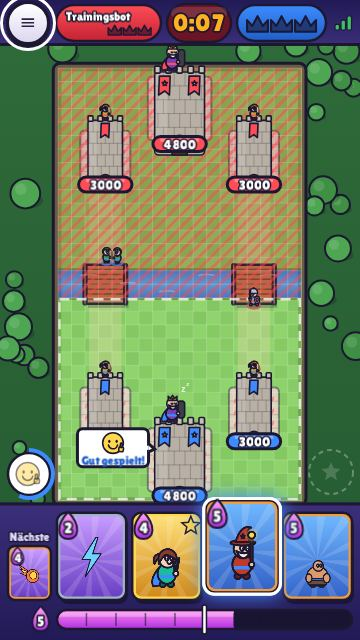
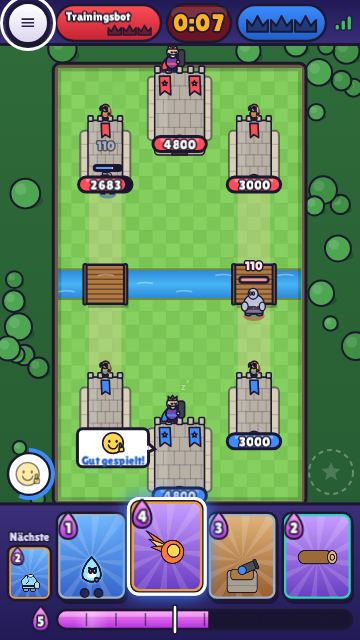
Aufräumen: Reste der erfundenen Karten entfernt, Doku aktualisiert
- README: Datenquelle (Clash Royale Wiki, CC BY-SA), Kartenumfang, Level,
  skin.json, Generator, neue Tests und Dateien
- Ladetipps, Kommentare und Look-Doku ohne alte Kartennamen
- Screenshots (README und UI-Auswahl) mit den echten Karten neu erzeugt
- Einheitlich „Spirit Empress“ wie im Spiel

Claude-Session: https://claude.ai/code/session_01Y8rRgYSLLZGca4oDTBhhbE

diff --git a/turmtrubel/client/js/main.js b/turmtrubel/client/js/main.js
@@ -18,12 +18,13 @@ const TIPS = [
   'Tipp: Fällt ein gegnerischer Wachturm, darfst du auch in seiner Lane platzieren.',
   'Tipp: In der letzten Minute fließt das Elixier doppelt so schnell.',
   'Tipp: Evo-Karten entwickeln sich, wenn du sie oft genug ausgespielt hast.',
-  'Tipp: Champions haben eine aktive Fähigkeit – sie kostet Elixier und lädt nach.',
-  'Tipp: Helden haben eine starke Spezialfähigkeit, die du einmal pro Einsatz zünden kannst.',
-  'Tipp: Gebäude lenken Gebäudejäger wie den Steinkoloss ab.',
+  'Tipp: Champions und Helden haben eine Fähigkeit – sie kostet Elixier und wirkt einmal pro Einsatz.',
+  'Tipp: Ein Held und seine normale Karte passen nicht zusammen ins Deck.',
+  'Tipp: Der Spiegel wiederholt deine zuletzt gespielte Karte eine Stufe stärker – für 1 Elixier mehr.',
+  'Tipp: Gebäude lenken Gebäudejäger wie den Riesen oder den Schweinereiter ab.',
   'Tipp: Mit den Tasten 1–4 wählst du Karten, mit der Leertaste zündest du Fähigkeiten.',
   'Tipp: Wählst du eine Karte, zeigt die Elixierleiste mit einer Kerbe, was sie kostet.',
-  'Tipp: Zauber wie Glutball treffen auch Kronentürme – aber mit weniger Schaden.',
+  'Tipp: Zauber wie der Feuerball treffen auch Kronentürme – aber mit weniger Schaden.',
   'Tipp: Schwärme sind stark gegen große Einzelkämpfer, aber anfällig für Flächenschaden.',
   'Tipp: Tippst du auf den gekürzten Gegnernamen, siehst du ihn in voller Länge.',
   'Tipp: Zerstörst du einen Wachturm, bekommst du eine Krone – drei Kronen beenden den Kampf sofort.',

diff --git a/turmtrubel/client/js/game/game.js b/turmtrubel/client/js/game/game.js
@@ -991,7 +991,7 @@ export class Game {
     return { obstacles, enemyDown };
   }
 
-  /** Aktuelle Kosten einer Handkarte laut Server (Spiegel, Geisterkaiserin); null = gerade nicht spielbar. */
+  /** Aktuelle Kosten einer Handkarte laut Server (Spiegel, Spirit Empress); null = gerade nicht spielbar. */
   handCost(slot, card) {
     const hc = this.me?.hc?.[slot];
     if (card?.elixirRule === 'mirror') return hc ?? null;
@@ -1122,7 +1122,7 @@ export class Game {
       g.dir = forwardDir(this.side);
       return g;
     }
-    // Geisterkaiserin: Form nach den aktuellen Kosten
+    // Spirit Empress: Form nach den aktuellen Kosten
     let ref = this.db.unitRefOf(eff);
     if (eff.forms) {
       const c = cost ?? this.handCost(this.sel, card);

diff --git a/turmtrubel/client/js/ui/cardview.js b/turmtrubel/client/js/ui/cardview.js
@@ -92,7 +92,7 @@ export function statsRows(db, card, evo = false) {
     if (s.delay) add('Verzögerung', `${fmt(s.delay)} s`, '⏳');
     return rows;
   }
-  // Geisterkaiserin: Werte der aktuell gewählten (Luft-)Form, die zweite Form als Hinweis
+  // Spirit Empress: Werte der aktuell gewählten (Luft-)Form, die zweite Form als Hinweis
   const u = db.unit(card.forms ? card.forms[0].unit : card.id, evo);
   const count = card.forms ? 1 : db.groupsOf(card, evo).reduce((sum, g) => sum + (g.count || 1), 0);
   add('Leben', fmt(u.hp) + (count > 1 ? ` (×${count})` : ''), '❤', 'hp', u.hp);

diff --git a/turmtrubel/client/js/game/hud.js b/turmtrubel/client/js/game/hud.js
@@ -538,7 +538,7 @@ export class Hud {
     const selected = g.sel === i && !g.ended;
     const dragging = g.drag?.active && selected;
     const ready = !(me.hr[i] > 0.01) && !g.pendingSlot.has(i);
-    // Kosten laut Server (Spiegel: letzte Karte + 1, Geisterkaiserin: je nach Elixier)
+    // Kosten laut Server (Spiegel: letzte Karte + 1, Spirit Empress: je nach Elixier)
     const cost = g.handCost(i, card);
     const afford = cost != null && elixir + 1e-6 >= cost;
     const evoInfo = me.ev?.[i];

diff --git a/turmtrubel/server/bot.js b/turmtrubel/server/bot.js
@@ -23,7 +23,7 @@ export class Bot {
     const p = m.players[side];
     this.tryAbility();
 
-    // Kosten wie beim Menschen über den Server (Spiegel, Geisterkaiserin); der Spiegel spielt wie seine Vorlage
+    // Kosten wie beim Menschen über den Server (Spiegel, Spirit Empress); der Spiegel spielt wie seine Vorlage
     const hand = p.hand
       .map((id, i) => {
         const card = m.db.card(id);

diff --git a/turmtrubel/test/mechanics.test.js b/turmtrubel/test/mechanics.test.js
@@ -338,7 +338,7 @@ test('Spiegel: letzte Karte eine Stufe stärker für +1 Elixier', () => {
   near(ks[1].maxHp / ks[0].maxHp, 1.1, 0.01);
 });
 
-test('Geisterkaiserin: Form hängt vom Elixier ab', () => {
+test('Spirit Empress: Form hängt vom Elixier ab', () => {
   const m = newMatch();
   const c = db.card('spirit-empress');
   m.players[0].elixir = 10;

diff --git a/turmtrubel/tools/cards/defs_looks.py b/turmtrubel/tools/cards/defs_looks.py
@@ -2,8 +2,7 @@
 # Eigene Gestaltung aus Körper/Hut/Waffe/Farben – keine Original-Grafiken.
 # body: hum | imp | skel | brute | golem | bot | moth | bug | winged | dragon | balloon | whale | spirit
 #       | rider | blob | barrel | cart | ghost | hog | bush | machine | wagon
-# Gebäude-body: cannon | turret | tesla | hut | grave | pump | inferno | mortar | ballista | barricade
-#       | cage | drill | bombtower
+# Gebäude-body: cannon | turret | tesla | hut | grave | pump | inferno | mortar | ballista | cage | drill | bombtower
 # Zauber: icon + color. Fehlt ein Look, zeichnet der Client einen Platzhalter mit dem Kartennamen.
 
 GOLD = '#ffd54a'

diff --git a/turmtrubel/README.md b/turmtrubel/README.md
@@ -1,6 +1,8 @@
 # Turmtrubel
 
-**Turmtrubel** ist ein 1v1-Echtzeit-Kartenspiel für den Browser: zwei Lanes, ein Fluss mit zwei Brücken, drei Türme pro Seite, Elixier, Karten ziehen und platzieren. Das Spielprinzip lehnt sich eng an bekannte Tower-Rush-Kartenspiele an. Alle Namen, Karten, Figuren, Grafiken und Sounds sind eigene Entwürfe; Grafik und Ton werden komplett im Code erzeugt, es gibt keine Bild- oder Audiodateien.
+**Turmtrubel** ist ein 1v1-Echtzeit-Kartenspiel für den Browser: zwei Lanes, ein Fluss mit zwei Brücken, drei Türme pro Seite, Elixier, Karten ziehen und platzieren. Gespielt wird mit den **echten Clash-Royale-Karten** (Namen, Elixier, Seltenheit, Typ und Werte wie im Original, Turnierstandard Level 11), alle von Anfang an freigeschaltet. Grafik und Ton sind eigene Entwürfe und werden komplett im Code erzeugt; es gibt keine kopierten Original-Assets und keine Bild- oder Audiodateien.
+
+> Privates Hobbyprojekt, nicht mit Supercell verbunden. Clash Royale ist eine Marke von Supercell. Die Kartenwerte stammen aus dem Community-Wiki (siehe [Datenquelle](#datenquelle)).
 
 ![Kampf am Desktop](docs/kampf-desktop.jpg)
 
@@ -54,7 +56,7 @@ Solange eine Karte ausgewählt ist, ist der gesperrte Bereich rot schraffiert, d
 
 ## Spielregeln
 
-* **Arena:** 18 × 32 Felder, zwei Lanes, Fluss in der Mitte, zwei Brücken. Bodentruppen kommen nur über die Brücken hinüber (Ausnahme: der *Borstenreiter* springt).
+* **Arena:** 18 × 32 Felder, zwei Lanes, Fluss in der Mitte, zwei Brücken. Bodentruppen kommen nur über die Brücken hinüber (Ausnahme: Flussspringer wie *Schweinereiter*, *Prinz* oder *Widderreiterin*).
 * **Türme:** pro Spieler 2 **Wachtürme** (entsprechen den Prinzessinnentürmen, 3000 LP) und 1 **Burgturm** (Königsturm, 4800 LP). Der Burgturm schläft, bis er Schaden nimmt oder ein eigener Wachturm fällt.
 * **Elixier:** Start bei 5, maximal 10, +1 alle 2,8 s. In der letzten Minute doppelt so schnell, in der Verlängerung dreifach.
 * **Dauer:** 3 Minuten. Bei Kronengleichstand folgen 2 Minuten **Verlängerung mit Sudden Death**: Der erste zerstörte Turm gewinnt. Steht es danach immer noch gleich, verliert der Spieler mit dem Turm mit den wenigsten Lebenspunkten; sind auch diese gleich, endet das Spiel unentschieden.
@@ -65,20 +67,24 @@ Solange eine Karte ausgewählt ist, ist der gesperrte Bereich rot schraffiert, d
 
 ### Kartenarten
 
-70 Karten, alle von Anfang an freigeschaltet und auf maximaler Stufe:
+140 Karteneinträge: alle **123 regulären Karten** des Originals plus **17 Helden-Varianten**, alle freigeschaltet und auf Level 11:
 
 | Art | Anzahl | Beispiele |
 | --- | ------ | --------- |
-| Truppen | 35 | Knappe, Zwillingsschützinnen, Knochenlegion, Steinkoloss, Bombenzeppelin, Glutwal, Tunnelgräber |
-| Gebäude | 9 | Donnerbüchse, Blitzmast, Glutschlund, Wichtelhütte, Elixierbrunnen, Steinschleuder, Belagerungsballiste, Barrikade |
-| Zauber | 14 | Glutball, Pfeilhagel, Funkenschlag, Eishauch, Sumpfnebel, Leimregen, Kettenblitz, Gewitterzorn, Heilregen, Rollstamm |
-| Champions | 6 | Aktive Fähigkeit, die **Elixier kostet** und eine **Abklingzeit** hat. Die Karte kehrt erst nach dem Tod des Champions in den Zyklus zurück. |
-| Helden | 6 | Starke Einheit mit **einmaliger** Spezialfähigkeit (kostenlos, einmal pro Einsatz) |
-| Evo-Karten | 15 | Liegt eine solche Karte in einem der **2 Evo-Plätze**, lädt sie sich durch Ausspielen auf. Nach `cycles` Einsätzen kommt die nächste als **Evo** mit Zusatzeffekt, anderen Farben, violetter Aura und Glitzer. |
+| Truppen | 82 | Ritter, Bogenschützen, Riese, P.E.K.K.A., Schweinereiter, Lakaienhorde, Megaritter, Spirit Empress |
+| Gebäude | 12 | Kanone, Tesla, Infernoturm, X-Bogen, Minenwerfer, Grabstein, Elixiersammler, Koboldbohrer |
+| Zauber | 21 | Feuerball, Pfeile, Gift, Blitz, Baumstamm, Tornado, Spiegel, Klonzauber, Friedhof, Ranken, Leere |
+| Champions | 8 | Bogenkönigin, Goldener Ritter, Skelettkönig, Mächtiger Mineur, Mönch, Little Prince, Goblinstein, Boss Bandit |
+| Helden | 17 | Eigene Karten `<basis>-hero` (z. B. *Ritter (Held)*), nur im ★-Platz und nie zusammen mit ihrer Basiskarte |
+| Evolutionen | 42 | Liegt eine solche Karte in einem der **2 Evo-Plätze**, lädt sie sich durch Ausspielen auf. Nach `cycles` Einsätzen kommt die nächste als **Evo** mit Zusatzeffekt und verändertem Aussehen. |
 
-Seltenheiten: Gewöhnlich, Selten, Episch, Legendär. Sie dienen nur der Einordnung und beeinflussen die Balance nicht.
+**Fähigkeiten:** Champions und Helden haben eine Fähigkeit, die Elixier kostet. Seit der Balance-Änderung vom 04.08.2026 wirkt sie **einmal pro Einsatz** (Boss Bandit: zweimal, 3 s Abklingzeit). Ein Champion kehrt erst nach seinem Tod in den Zyklus zurück.
 
-**Deckregeln:** 8 verschiedene Karten. Platz 1–2 sind Evo-Plätze, Platz 3 ist der **Champion/Held-Platz**. Champions und Helden dürfen nur dort liegen, also höchstens einer pro Deck. Der Server prüft das Deck beim Erstellen und Beitreten erneut.
+Seltenheiten: Gewöhnlich, Selten, Episch, Legendär, Champion.
+
+**Deckregeln:** 8 verschiedene Karten. Platz 1–2 sind Evo-Plätze, Platz 3 ist der **Champion/Held-Platz**. Champions und Helden dürfen nur dort liegen, also höchstens einer pro Deck; ein Held darf nicht zusammen mit seiner Basiskarte im Deck stehen. Der Server prüft das Deck beim Erstellen und Beitreten erneut. Gespeicherte Decks, die Karten enthalten, die es nicht mehr gibt, werden beim Laden automatisch auf das Startdeck zurückgesetzt.
+
+**Sonderkosten:** Der *Spiegel* kostet die zuletzt gespielte Karte + 1 und spielt sie eine Stufe stärker; die *Spirit Empress* kommt ab 6 Elixier fliegend für 6, sonst zu Fuß für 3. Beides berechnet der Server und schickt es mit dem Snapshot (`me.hc`).
 
 ---
 
@@ -89,7 +95,7 @@ Browser (Canvas-Client)                     Node.js-Server (autoritativ)
 ┌──────────────────────────┐   WebSocket   ┌───────────────────────────────────┐
 │ Eingaben: play/ability/   │ ───────────► │ rooms.js  Codes, Lobby, Countdown, │
 │ emote/ready/rematch       │              │           Reconnect, Rematch       │
-│                           │ ◄─────────── │ sim/match.js  20 Ticks/s            │
+│                           │ ◄─────────── │ sim/  20 Ticks/s                    │
 │ Snapshot-Puffer (110 ms)  │  Snapshots   │   prüft Elixier, Handkarte,         │
 │ → Interpolation → Zeichnen│   20/s       │   Platzierung, Cooldowns            │
 └──────────────────────────┘              └───────────────────────────────────┘
@@ -106,8 +112,11 @@ Browser (Canvas-Client)                     Node.js-Server (autoritativ)
 
 ```
 turmtrubel/
-├─ data/cards.json          Kartendatenbank (Balance ohne Codeänderung)
-├─ data/rules.json          Spielregeln (Zeiten, Elixier, Türme, Lobby)
+├─ data/cards.json          Kartendatenbank (erzeugt aus tools/cards/, Level 11)
+├─ data/rules.json          Spielregeln (Zeiten, Elixier, Türme, Lobby, cardLevel)
+├─ data/skin.json           Namens-/Grafik-Mapping: „original“ (Standard) oder „custom“
+├─ data/source/             Wiki-Snapshot (wiki-cards.json) als Datenquelle
+├─ TODO_missing_stats.md    fehlende, geschätzte und widersprüchliche Werte
 ├─ shared/arena.js          Geometrie, Brücken, Türme, Platzierungsregeln
 ├─ shared/cards.js          DB-Aufbau, Einheiten-/Evo-Auflösung, Deck-Validierung, Zufallsdeck
 ├─ shared/decks.js          Startdecks
@@ -115,7 +124,13 @@ turmtrubel/
 ├─ server/index.js          HTTP + WebSocket, Routing, Rate-Limit, Tick-Schleife
 ├─ server/rooms.js          RoomManager/Room: Codes, Lobby, Reconnect, Rematch, Training
 ├─ server/bot.js            Trainingsgegner (spielt über dieselben Prüfungen)
-├─ server/sim/match.js      Simulation: Einheiten, Zauber, Fähigkeiten, Sieg
+├─ server/sim/match.js      Simulation: Kern, Ausspielen, Ticks, Snapshots, Sieg
+├─ server/sim/combat.js     Zielwahl, Angriffe, Geschosse, Schaden, Buffs, Schild/Rüstung
+├─ server/sim/motion.js     Laufen, Ansturm, Sprint, Sprung, Haken, Wurf, Untergrund, Kollision
+├─ server/sim/traits.js     Spawner, Auren, Todes-Effekte, Verwandlung, Tarnung, Fallen
+├─ server/sim/spells.js     Zauberzonen, Rollzauber, Beschwörungen, Spiegel, Klon, Ranken, Leere
+├─ server/sim/abilities.js  Champion- und Heldenfähigkeiten
+├─ server/sim/geom.js       Geometrie-Helfer
 ├─ server/sim/nav.js        Navigationsraster + A*
 ├─ client/index.html        Alle Screens
 ├─ client/css/style.css     Cartoon-UI
@@ -125,6 +140,9 @@ turmtrubel/
 ├─ client/js/store.js       localStorage (Name, Einstellungen, 5 Deck-Plätze)
 ├─ client/js/ui/…           Deck-Bauer, Kartenansicht, Einstellungen, DOM-Helfer (Modal, Toast), tokens.js (Design-Tokens fürs Canvas)
 ├─ client/js/game/…         game.js (Interpolation, Eingabe), renderer.js, hud.js (Layout-Engine), canvastext.js, sprites.js, particles.js
+├─ tools/fetch-cards.mjs    lädt den Wiki-Snapshot (MediaWiki-API)
+├─ tools/cards/             Kartendefinitionen + build.py → data/cards.json, TODO_missing_stats.md
+├─ tools/e2e/               Test-Clients, die über WebSocket komplette Kämpfe spielen
 ├─ tools/ui-shots.mjs       Screenshots aller Zustände in 8 Viewports + automatische UI-Prüfungen
 ├─ docs/ui-*.md             UI-Audit, Entscheidungen, Vorher/Nachher
 └─ test/…                   node:test-Tests
@@ -132,9 +150,36 @@ turmtrubel/
 
 ---
 
+## Datenquelle
+
+Alle Kartenwerte stammen aus dem **Clash Royale Wiki** auf Fandom (<https://clashroyale.fandom.com/wiki/Cards>, Inhalte unter CC BY-SA). `tools/fetch-cards.mjs` lädt über die MediaWiki-API je Karte Infobox, deutschen Namen (Sprachlink) und die Werte-Tabellen auf **Turnierstandard Level 11** und speichert alles als Snapshot in `data/source/wiki-cards.json` (Stand: siehe `fetchedAt`). Es werden keine Werte aus dem Gedächtnis ergänzt:
+
+* Es gelten die Werte der jeweiligen Kartenseite. Ist eine Balance-Änderung aus der Versionshistorie 2026 dort noch nicht eingepflegt, wird sie angewendet.
+* Widersprüche zur Übersichtstabelle, fehlende Angaben und vorläufige Platzhalter stehen in **`TODO_missing_stats.md`**. `test/carddata.test.js` stellt sicher, dass Elixier, Seltenheit und Typ mit dem Snapshot übereinstimmen und Leben/Schaden nur dort abweichen, wo das dokumentiert ist.
+* Umrechnung: Wiki-Tempo ÷ 60 = Felder pro Sekunde (langsam 0,75 · mittel 1 · schnell 1,5 · sehr schnell 2), Geschosstempo ebenso ÷ 60; Reichweiten und Radien in Feldern, Zeiten in Sekunden.
+* Karten ohne deutschen Wiki-Eintrag tragen vorerst den englischen Namen (Liste in `TODO_missing_stats.md`).
+
+```bash
+node tools/fetch-cards.mjs        # Snapshot neu laden (überschreibt data/source/wiki-cards.json)
+npm run cards                     # data/cards.json + TODO_missing_stats.md aus tools/cards/ neu erzeugen (Python 3)
+```
+
+### Kartenlevel
+
+`data/rules.json → cardLevel` (Standard **11**) gilt für beide Spieler. Jede Stufe darüber oder darunter ändert Leben, Schaden, Schilde und Heilung um den Faktor 1,1 (Tempo, Reichweiten und Zeiten bleiben gleich). Der *Spiegel* spielt seine Karte eine Stufe höher.
+
+### Namen und Grafik: skin.json
+
+`data/skin.json` legt fest, welche Namen, Beschreibungen und Grafiken angezeigt werden:
+
+* `"active": "original"` (Standard): Namen und Aussehen aus `cards.json`, also die echten Kartennamen mit den eigenen prozeduralen Figuren.
+* `"active": "custom"`: eigene Inhalte. Für jede Karte und jedes Token gibt es einen Eintrag mit `name`, `description`, `look` (Baukasten, z. B. `{"cloth": "#2e86c1"}`), optional `image` (eigenes Bild unter `client/`, z. B. `"/img/skin/knight.png"`) sowie `evo`/`ability` mit `name` und `description`. **Leere Felder fallen auf das Original zurück.** Werte (Leben, Schaden …) ändert ein Skin nie.
+
+Umschalten über `active` oder per Umgebungsvariable: `SKIN=custom npm start`.
+
 ## Karten und Regeln anpassen
 
-Nach Änderungen an `data/cards.json` oder `data/rules.json` den Server neu starten. Clients laden die Daten direkt vom Server und sind dadurch immer synchron. `npm test` prüft anschließend, dass jede Karte gültig ist und spielbar bleibt.
+Nach Änderungen an `data/cards.json`, `data/rules.json` oder `data/skin.json` den Server neu starten. Clients laden die Daten direkt vom Server und sind dadurch immer synchron. Am besten ändert man die Definitionen in `tools/cards/` und erzeugt `cards.json` mit `npm run cards` neu. `npm test` prüft anschließend, dass jede Karte gültig ist und spielbar bleibt.
 
 **Truppe/Gebäude** (`unit`):
 
@@ -142,26 +187,27 @@ Nach Änderungen an `data/cards.json` oder `data/rules.json` den Server neu star
 | ---- | --------- |
 | `hp`, `damage`, `hitSpeed`, `firstHit` | Leben, Schaden, Sekunden zwischen Angriffen, Verzögerung des ersten Treffers |
 | `range`, `minRange`, `sight` | Reichweite (Kante zu Kante), toter Winkel, Sichtweite (Standard 5,5) |
-| `speed` | Felder pro Sekunde (0,75 langsam · 1 mittel · 1,5 schnell · 2 sehr schnell) |
+| `speed` | Felder pro Sekunde (Wiki-Tempo ÷ 60) |
 | `targets` | `ground`, `air`, `both`, `buildings` |
-| `flying`, `radius`, `mass` | Fliegt? Kollisionsgröße; Masse fürs gegenseitige Schieben (≥ 12 immun gegen Rückstoß) |
+| `flying`, `hover`, `radius`, `mass` | Fliegt bzw. schwebt über den Fluss? Kollisionsgröße; Masse fürs gegenseitige Schieben (≥ 12 immun gegen Rückstoß) |
 | `splash`, `splashSelf` | Flächenradius um das Ziel bzw. um sich selbst |
 | `projectile` | `{ kind, speed, arc }` (Geschwindigkeit 0 = sofortiger Treffer) |
 | `towerDamage` | Schadensfaktor gegen Kronentürme |
 | `size`, `lifetime`, `deployTime` | Gebäude: Kantenlänge, Lebensdauer; Aufstellzeit |
-| `count` (Karte) | Anzahl der erzeugten Einheiten; `unit` darf auch ein Verweis sein (z. B. `"knochenwichte"`) |
+| `count`, `formation`, `groups` (Karte) | Anzahl, Aufstellung (`line`, `split`), gemischte Gruppen; `unit` darf auch ein Verweis auf eine andere Karte sein (z. B. Lakaienhorde → `"minions"`) |
+| `forms`, `elixirRule` (Karte) | Formen nach Elixier (Spirit Empress), `"mirror"` für den Spiegel |
 
-**Traits** (`unit.traits`): `charge`, `kamikaze`, `deathDamage`, `deathSpawn`, `deathSpell`, `spawner`, `ramp`, `multiTarget`, `riverJump`, `deployAnywhere`, `deployBlast`, `healAura`, `elixirGen`, `shield`, `movingArmor`, `rageOnHit`, `healOnKill`, `longRangeBonus`, `onHit: { stun, slow, knockback, pull, burn, lifesteal, spawn }`.
+**Traits** (`unit.traits`, wiederverwendbare Bausteine): Angriff `charge`, `dash`, `leap`, `hook`, `kamikaze`, `ramp`, `attackRamp`, `multiTarget`, `pierce`, `spread`, `shrapnel`, `secondary`, `sniper`, `melee`, `combo`, `chargeUp`, `uppercut`, `recoil`, `bounce`, `poisonDart`, `slowShot`, `net`, `onHit { stun, freeze, slow, chain, curse, spawn }`; Verteidigung `shield`, `armor`, `parry`, `veil`, `zapBack`, `untargetable`, `invulnerable`; Bewegung `riverJump`, `deployAnywhere`, `hidden`, `stealth`, `glide`, `resurface`; Erzeugen/Tod `spawner`, `deathSpawn`, `deathDamage`, `deathSpell`, `deathElixir`, `deployBlast`, `transform`, `hatch`, `dropAt`, `shadowOnDeath`, `leader`; Sonstiges `aura`, `enchant`, `elixirGen`, `healOnAttack`, `selfHealOnHit`, `killHeal`, `rageOnHit`, `souls`, `trap`, `freezeAura`, `barrage`, `whirl`.
 
-**Zauber** (`spell`): `radius`, `damage`, `towerDamage`, `delay`, `stun`, `slow`, `knockback`, `duration`+`pulse` (Dauerwirkung), `heal`, `rage`, `spawn`, `graveyard`, `chain`, `strikes`, `roll`, `echo`.
+**Zauber** (`spell`): `radius`, `damage`, `towerDamage`, `buildingDamage`, `waves`, `travel`, `delay`, `duration`+`pulse`, `stun`/`freeze`, `slow`, `knockback`, `pull`, `rage`, `curse`, `heal`, `roll`, `ownSide`, `spawn`, `spawnAtEnd`, `mirrorSpawn`, `graveyard`, `strikes`, `vines`, `voidTiers`, `clone`, `mirror`, `gather`, `echo`.
 
 **Evo** (`evo`): `cycles`, `name`, `description` und `unit`- bzw. `spell`-Overrides, die über die Basiswerte gelegt werden, inklusive `look` für das veränderte Aussehen.
 
-**Fähigkeiten** (`ability`): Champions mit `cost` und `cooldown`, Helden ohne Kosten und einmalig. Bausteine, die sich kombinieren lassen: `dash`, `reflect`, `cloak`, `buff`, `damage`/`stun`/`knockback` mit `radius`, `heal`/`rage` für Verbündete, `summon`, `shots`, `build`.
+**Fähigkeiten** (`ability`): `name`, `cost`, `uses` (Standard 1), `cooldown`, `castTime` und ein Effekt-Baustein, z. B. `cloak`, `vanish`, `dash`, `burrow`, `guard`, `souls`, `taunt`, `hurl`, `build`, `summon`, `flight`, `banner`, `warp`, `reroll`, `decoy`, `tripleShot`, `paratrooper`, `stance`, `dismount`, `frenzy`, `spin`, `link`, `pulses`, `pancakes`, `summonCharge`.
 
-**Aussehen** (`look`): `body` (`hum`, `imp`, `skel`, `brute`, `golem`, `bot`, `moth`, `bug`, `winged`, `dragon`, `balloon`, `whale`, `spirit`, `rider`, `blob`, `barrel`, `cart` bzw. Gebäude wie `cannon`, `tesla`, `inferno` …), `hat`, `weapon`, `shield`, `cape`, `beard`, `mount`, Farben (`skin`, `cloth`, `accent`) und `scale`.
+**Aussehen** (`look`): `body` (`hum`, `imp`, `skel`, `brute`, `golem`, `bot`, `moth`, `bug`, `winged`, `dragon`, `balloon`, `whale`, `spirit`, `rider`, `blob`, `barrel`, `cart`, `ghost`, `hog`, `bush`, `machine`, `wagon` bzw. Gebäude wie `cannon`, `tesla`, `inferno`, `cage`, `drill`, `bombtower` …), `hat`, `weapon`, `shield`, `cape`, `beard`, `mount`, Farben (`skin`, `cloth`, `accent`), `scale`, `hero`; Zauber `icon` + `color`. Fehlt ein Look, zeichnet der Client einen Platzhalter mit dem Kartennamen.
 
-**Regeln** (`data/rules.json`): Spielzeit, Verlängerung, Doppel-Elixier-Phase, Elixierwerte, Turmwerte, Code-Gültigkeit (600 s), Reconnect-Fenster (30 s), Countdown, Emote-Abklingzeit, Einheitenlimit. `suddenDeath` steht standardmäßig auf `"firstCrown"` (erster zerstörter Turm gewinnt, wie im Vorbild); mit `"firstHit"` gewinnt der erste Treffer auf einen Kronenturm.
+**Regeln** (`data/rules.json`): Spielzeit, Verlängerung, Doppel-Elixier-Phase, Elixierwerte, Turmwerte, `cardLevel`, Code-Gültigkeit (600 s), Reconnect-Fenster (30 s), Countdown, Emote-Abklingzeit, Einheitenlimit. `suddenDeath` steht standardmäßig auf `"firstCrown"` (erster zerstörter Turm gewinnt, wie im Vorbild); mit `"firstHit"` gewinnt der erste Treffer auf einen Kronenturm.
 
 ---
 
@@ -173,13 +219,17 @@ npm test
 
 Die Tests laufen mit dem eingebauten `node:test`, ohne zusätzliche Abhängigkeiten:
 
-* **elixir**: Startwert, 2,8-s-Regeneration, Obergrenze 10, doppelte und dreifache Rate, Kosten, Elixierbrunnen
+* **elixir**: Startwert, 2,8-s-Regeneration, Obergrenze 10, doppelte und dreifache Rate, Kosten, Elixiersammler
 * **simulation**: fester Tick, Determinismus, Brücken-Pfadsuche, Turm-KI, Burgturm-Aktivierung, Platzierung und Taschen, Handrotation, Anti-Cheat, Champion-Zyklus, Fähigkeiten, Evo-Ladung, Zauber, Todeseffekte, Gebäudeverfall, 20 Bot-gegen-Bot-Kämpfe
 * **victory**: Burgturm-Sieg, Kronen, Zeitablauf, Sudden Death, Tiebreak, Unentschieden, `firstHit`-Variante, Aufgabe
-* **cards/allcards**: Umfang und Integrität der Datenbank, auflösbare Verweise, Deckregeln, Zufallsdecks, jede Karte und jede Evo spielbar
+* **cards/allcards**: Umfang und Integrität der Datenbank, Kartenlevel, auflösbare Verweise, Deckregeln (inkl. Held + Basiskarte), Zufallsdecks, jede Karte, jede Evo und jede Fähigkeit spielbar
+* **carddata**: Abgleich mit dem Wiki-Snapshot (Elixier, Seltenheit, Typ, Leben/Schaden, nur dokumentierte Abweichungen)
+* **mechanics**: je Mechanik-Gruppe eine typische Karte – Ansturm, Kamikaze, Rampe, Kette, Verlangsamung, Durchschlag, Schild, Spawner, Todesbombe, Elixiergolem, Flusssprung, Sprint, Sprung, Haken, Untergrund, Tarnung, versteckte Tesla, Zielwahl, Zauber (Pfeile, Tornado, Baumstamm, Wut, Frost, Klon, Friedhof, Koboldfass, Erdbeben, Spiegel), Spirit Empress, Champions, Helden, Evolutionen
+* **skin**: „original“/„custom“, Rückfall bei leeren Feldern, `SKIN`-Variable
 * **placement**: Zonen, Fluss, Türme, Gebäude, Taschen, gedrehte Ansicht
 * **rooms**: Codeformat und Eindeutigkeit, Fehler (ungültig, unbekannt, voll, abgelaufen), Countdown, Lade-Timeout, Reconnect innerhalb und nach 30 s, Rematch, Verlassen, Training
 * **integration**: echter Server auf zufälligem Port mit zwei WebSocket-Clients: Lobby, Kampf, gültige und ungültige Züge, Emote, Ping, Reconnect, Aufgabe, Rematch
+* **e2e**: zwei automatische Test-Clients (`tools/e2e/`) spielen über WebSocket drei **komplette Kämpfe** gegeneinander (Server im Zeitraffer ×8, Regeln unverändert). Zusammen decken die Testdecks jede Mechanik-Gruppe ab und lösen Champion- und Heldenfähigkeiten sowie Evolutionen aus. `npm run e2e` zeigt dazu einen ausführlichen Bericht.
 
 ### UI-Screenshots und Prüfungen
 
@@ -199,7 +249,7 @@ Playwright ist **keine** Projektabhängigkeit (damit `npm install` schlank bleib
 
 * **Kein Persistenz-Backend:** Sitzungen und Räume liegen im Arbeitsspeicher. Ein Server-Neustart beendet laufende Kämpfe. Decks, Name und Einstellungen speichert jeder Browser lokal.
 * **Ein Prozess, keine Skalierung:** Es gibt keine öffentliche Spielersuche (nur Einladungscodes), keine Ranglisten, keinen Zuschauermodus und keine Replays.
-* **Balance ist ein erster Entwurf:** Die Werte sind plausibel und mit Bot-Simulationen geprüft, aber nicht mit echten Spielern ausbalanciert.
+* **Werte wie im Original, Mechanik teils vereinfacht:** Die Zahlen stammen aus dem Wiki-Snapshot (Level 11). Einige Effekte sind vereinfacht nachgebaut, und wo das Wiki keine Angabe macht, stehen geschätzte Platzhalter (siehe `TODO_missing_stats.md`). Die Türme behalten die Turmtrubel-Werte (3000/4800 LP).
 * **Vereinfachte Physik:** Die Wegfindung nutzt ein 0,5-Feld-Raster mit A*, die Kollisionen weiche Kreis- und Rechteck-Trennung. In großen Gedrängen oder an Turmecken können Einheiten kurz ruckeln oder sich stauen.
 * **Keine Vorhersage beim Platzieren:** Eigene Karten erscheinen erst nach der Server-Bestätigung (Ping + ca. 110 ms Interpolationspuffer). Bis dahin ist eine Vorschau sichtbar.
 * **Netzlast:** Snapshots werden jeden Tick komplett als JSON gesendet (typisch 0,5–6 KB), ohne Delta-Kompression. Das reicht für LAN und normales Internet, ist aber nicht optimiert.
@@ -207,10 +257,10 @@ Playwright ist **keine** Projektabhängigkeit (damit `npm install` schlank bleib
 * **Grafik vollständig prozedural:** Das sieht charmant aus, ist aber einfacher als handgezeichnete Sprites. Auf sehr alten Geräten hilft *Grafikqualität: Niedrig*.
 * **Audio:** Browser (besonders iOS) starten Ton erst nach der ersten Berührung. Musik und Effekte sind synthetisch.
 * **Oberfläche:** Im Hochformat erscheint der Hinweis-Toast (z. B. „Nicht genug Elixier!“) für 1,4 s am unteren Arenarand über dem eigenen Burgturm. Vibration gibt es nur, wo der Browser `navigator.vibrate` anbietet (nicht auf iOS). Die Performance ist bisher nur in Chromium gemessen (siehe `docs/ui-vorher-nachher.md`).
-* **Designentscheidungen:** Helden lösen ihre einmalige Fähigkeit per Knopf aus. Evo-Karten starten ungeladen (`evo.startCharged` in `rules.json`). Turmnamen und Kartennamen sind bewusst eigenständig.
+* **Designentscheidungen:** Champions und Helden lösen ihre Fähigkeit per Knopf aus. Evo-Karten starten ungeladen (`evo.startCharged` in `rules.json`). Die Turmnamen (Wachturm, Burgturm) sind eigenständig, die Kartennamen kommen aus dem Original (umschaltbar über `skin.json`).
 
 ---
 
 ## Lizenzen
 
-Der Code ist Teil dieses Repositories. Die Schriften *Lilita One* und *Nunito* kommen über npm (`@fontsource`) und stehen unter der SIL Open Font License; sie werden lokal ausgeliefert, sodass das Spiel auch offline im LAN läuft.
+Der Code ist Teil dieses Repositories. Die Kartenwerte und -texte im Snapshot `data/source/wiki-cards.json` stammen aus dem Clash Royale Wiki (Fandom) und stehen unter CC BY-SA. Die Schriften *Lilita One* und *Nunito* kommen über npm (`@fontsource`) und stehen unter der SIL Open Font License; sie werden lokal ausgeliefert, sodass das Spiel auch offline im LAN läuft.
